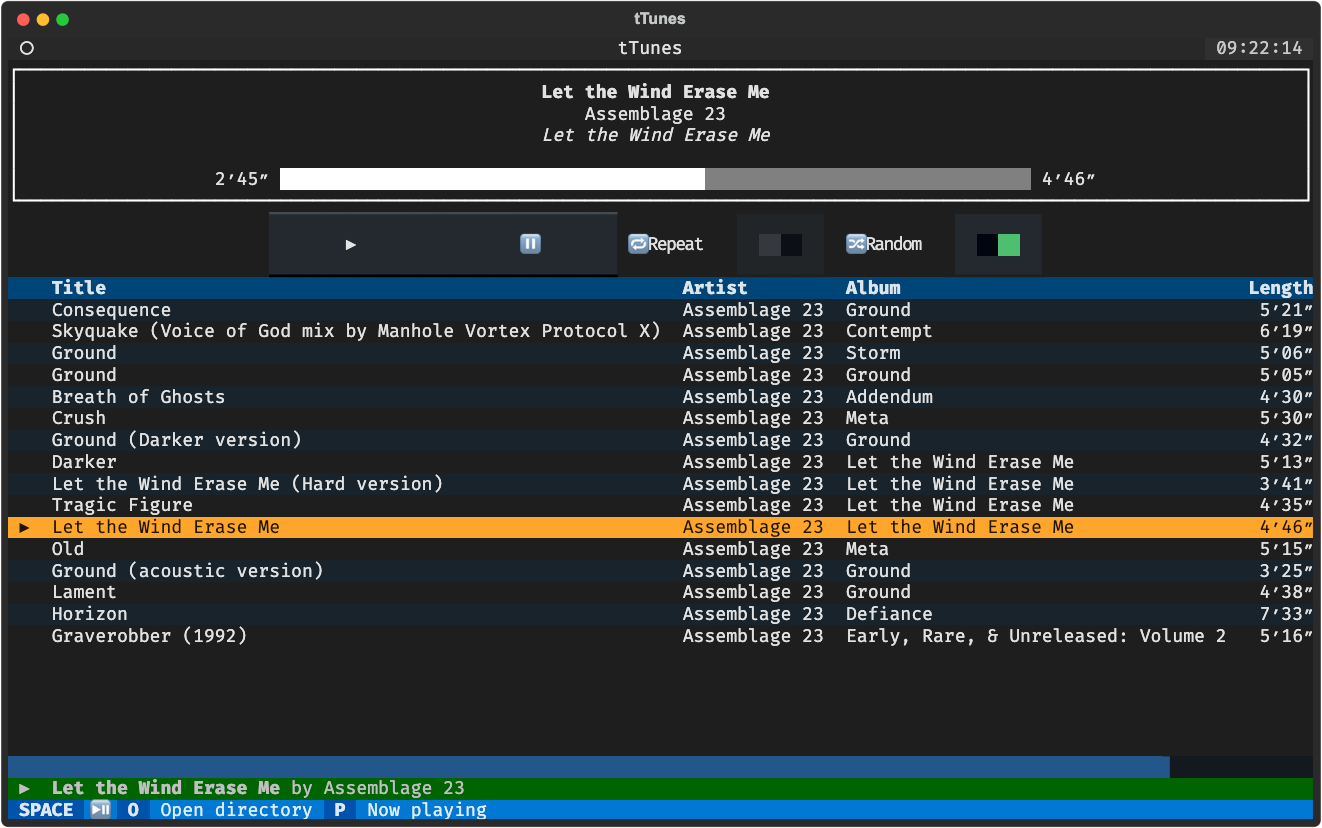
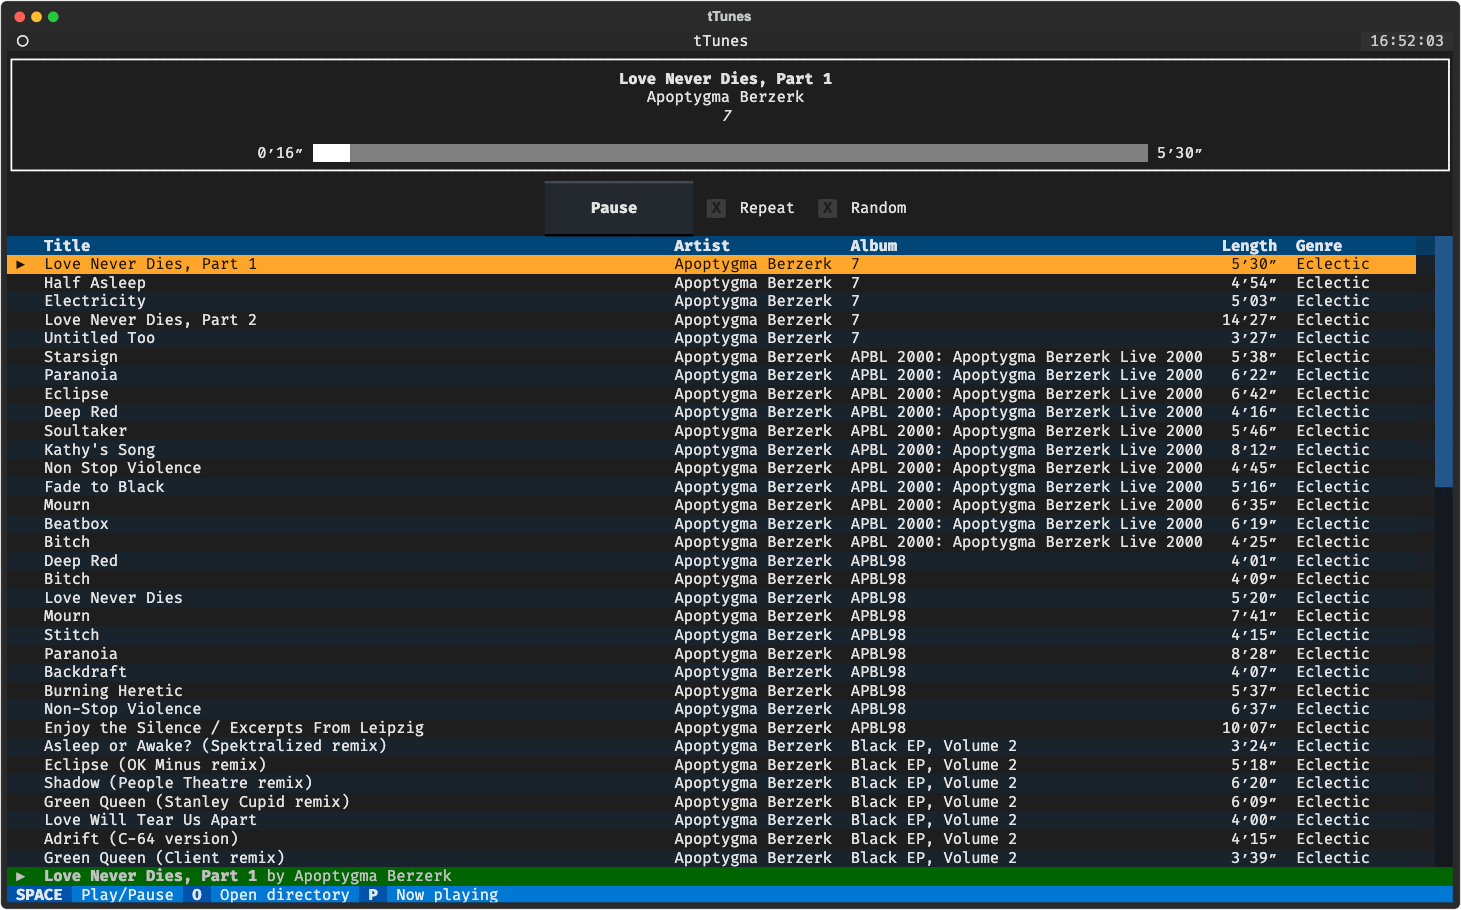
Chonky artwork!

diff --git a/music_player.css b/music_player.css
@@ -102,12 +102,35 @@ Checkbox {
 #play_button {
     display: block;
 }
+
 .playing #play_button {
     display: none;
 }
+
 #pause_button {
     display: none;
 }
+
 .playing #pause_button {
     display: block;
+}
+
+NowPlaying {
+    align-horizontal: center;
+    align-vertical: middle;
+    content-align: center middle;
+    layout: horizontal;
+    width: 100vw;
+    padding: 3;
+}
+
+NowPlaying ArtWork {
+    width: 50%;
+    content-align: right middle;
+    padding-right: 3;
+}
+NowPlaying Container {
+    align-horizontal: center;
+    align-vertical: top;
+    padding-top: 8;
 }

diff --git a/music_player.py b/music_player.py
@@ -1,5 +1,6 @@
 from __future__ import annotations
 
+import io
 import sys
 
 from os import walk, path, environ
@@ -7,11 +8,13 @@ from pathlib import Path
 from random import shuffle
 from typing import ClassVar, Iterable, Optional
 
+from PIL import Image
 from tinytag import TinyTag
 from tinytag.tinytag import ID3, Ogg, Wave, Flac, Wma, MP4, Aiff
 
 from rich.text import Text  # noqa - required by textual
-from rich.console import RenderableType  # noqa - required by textual
+from rich.console import RenderableType, Console  # noqa - required by textual
+from rich_pixels import Pixels
 
 from textual import log, events
 from textual.coordinate import Coordinate
@@ -20,7 +23,7 @@ from textual.binding import Binding
 from textual.message import Message
 from textual.reactive import Reactive
 from textual.app import App, ComposeResult, CSSPathType
-from textual.containers import Horizontal, Vertical, VerticalScroll
+from textual.containers import Horizontal, Vertical, VerticalScroll, Container
 from textual.widgets import Header, Footer, Static, Button, Checkbox, Label
 from textual.widgets import DataTable, ContentSwitcher, Placeholder, DirectoryTree
 
@@ -56,6 +59,7 @@ SYM_SPEAKER_MUTED: str = "\U0001F507"  # 🔇
 TRACK_UNKNOWN: str = "<unknown track>"
 ARTIST_UNKNOWN: str = "<unknown artist>"
 ALBUM_UNKNOWN: str = "<unknown album>"
+NO_ARTWORK :str= "<no embedded album art>"
 
 PLAY: str = "Play"
 PAUSE: str = "Pause"
@@ -177,14 +181,20 @@ class DirectoryBrowser(DirectoryTree):
         self.app.focus_playlist()
 
 
-class NowPlaying(Placeholder):
-    """Display what is currently playing."""
-    BINDINGS = []
+class ArtWork(Static):
+    pass
 
-    title = Reactive("")
-    artist = Reactive("")
-    album = Reactive("")
-    artwork = None
+
+class NowPlaying(Static):
+    """Display what is currently playing."""
+
+    def compose(self) -> ComposeResult:
+        yield ArtWork(NO_ARTWORK, id="now_playing_art")
+        yield Container(
+            Static("TITLE", id="now_playing_track_name"),
+            Static("ARTIST", id="now_playing_artist_name"),
+            Static("ALBUM", id="now_playing_album_name")
+        )
 
 
 class ContextSwitcher(ContentSwitcher):
@@ -483,7 +493,7 @@ class MusicPlayerApp(App):
 
     def update_tracks_from_files(self, files: list) -> None:
         # Get track metadata from music files.
-        tracks: list[Track] = [TinyTag.get(f) for f in files]
+        tracks: list[Track] = [TinyTag.get(f, image=True) for f in files]
 
         # Clear the existing list of tracks and create a new {TrackPath:Track} mapping.
         self.tracks.clear()
@@ -492,14 +502,35 @@ class MusicPlayerApp(App):
     def update_track_info_track(self, track_path: TrackPath) -> None:
         """Update track info with a track's info."""
         track: Track = self.tracks[track_path]
-        self.update_track_info(track.title, track.artist, track.album)
+        pixels = None
+
+        image_data = track.get_image()
+        if image_data:
+            image: Image = Image.open(io.BytesIO(image_data))
+            pixels = Pixels.from_image(image.resize(size=(24, 24)))
+
+        self.update_track_info(track.title, track.artist, track.album, pixels)
         self.update_progress()
 
-    def update_track_info(self, title: Optional[str], artist: Optional[str], album: Optional[str]) -> None:
+    def update_track_info(self, title: Optional[str], artist: Optional[str], album: Optional[str],
+                          art: Optional[Pixels]) -> None:
         """Update the UI with details of the current track."""
-        self.query_one("#track_name", Static).update(f"[bold]{title}[/]" if title else f"[bold]{TRACK_UNKNOWN}[/]")
-        self.query_one("#artist_name", Static).update(f"{artist}" if artist else ARTIST_UNKNOWN)
-        self.query_one("#album_name", Static).update(f"[italic]{album}[/]" if album else f"[italic]{ALBUM_UNKNOWN}[/]")
+        track_name: str = f"[bold]{title}[/]" if title else f"[bold]{TRACK_UNKNOWN}[/]"
+        self.query_one("#track_name", Static).update(track_name)
+        self.query_one("#now_playing_track_name", Static).update(track_name)
+
+        artist_name: str = f"{artist}" if artist else ARTIST_UNKNOWN
+        self.query_one("#artist_name", Static).update(artist_name)
+        self.query_one("#now_playing_artist_name", Static).update(artist_name)
+
+        album_name: str = f"[italic]{album}[/]" if album else f"[italic]{ALBUM_UNKNOWN}[/]"
+        self.query_one("#album_name", Static).update(album_name)
+        self.query_one("#now_playing_album_name", Static).update(album_name)
+
+        if art:
+            self.query_one("#now_playing_art", Static).update(art)
+        else:
+            self.query_one("#now_playing_art", Static).update(NO_ARTWORK)
 
     def play_track(self, track_path: TrackPath) -> None:
         """Play a track."""
@@ -567,7 +598,7 @@ class MusicPlayerApp(App):
         """Stop the music."""
         self.remove_class("playing")
         self.set_status(f"Stopped")
-        self.update_track_info(None, None, None)
+        self.update_track_info(None, None, None, None)
         self.update_progress()
         stop_music()
 

diff --git a/README.md b/README.md
@@ -4,8 +4,9 @@ A simple music player (MP3, etc.) using [Textual](https://textual.textualize.io/
 
 ![screenshot.png](screenshot.png)
 
-Version 0.0.0.0.0.0.3-prealpha (not even joking—this is a learning experience for me, so the code will *very*
-unoptimised).
+![screenshot_art.png](screenshot_art.png)
+
+Version 0.0.0.0.0.0.4-prealpha (not even joking!)
 
 **This is very much a WIP. Use at your own risk.**
 
@@ -14,6 +15,7 @@ unoptimised).
 - textual - for TUI
 - pygame - for music playing
 - tinytag - for reading audio tags
+- rich_pixel - for artwork
 
 ## Sample audio
 
@@ -39,13 +41,12 @@ $ textual run --dev music_player.py
 - [x] add support for `ogg` 
 - [x] make the bloody thing work!
 - [x] make the bloody thing work better!
+- [x] "now playing" with [chonky embedded album artwork](https://github.com/darrenburns/rich-pixels)?
 - [ ] make the bloody thing work even better!
-- [ ] add support for `mp4`, `m4a`, `ogg` and/or `flac` files :-)
+- [ ] add support for `mp4`, `m4a` and/or `flac` files :-)
 - [ ] clean up the UI (I'm looking at you, footer!)
 - [ ] record session info (current track, position, volume, etc.) so that playback starts where you left off last time
 - [ ] maybe - drag/drop source folder?
-- [ ] maybe - "now playing" with [chonky embedded album artwork](https://github.com/darrenburns/rich-pixels)? (wouldn't
-  that be neat?!)
 - [ ] other cool stuff!?!
 
 ## Notes
